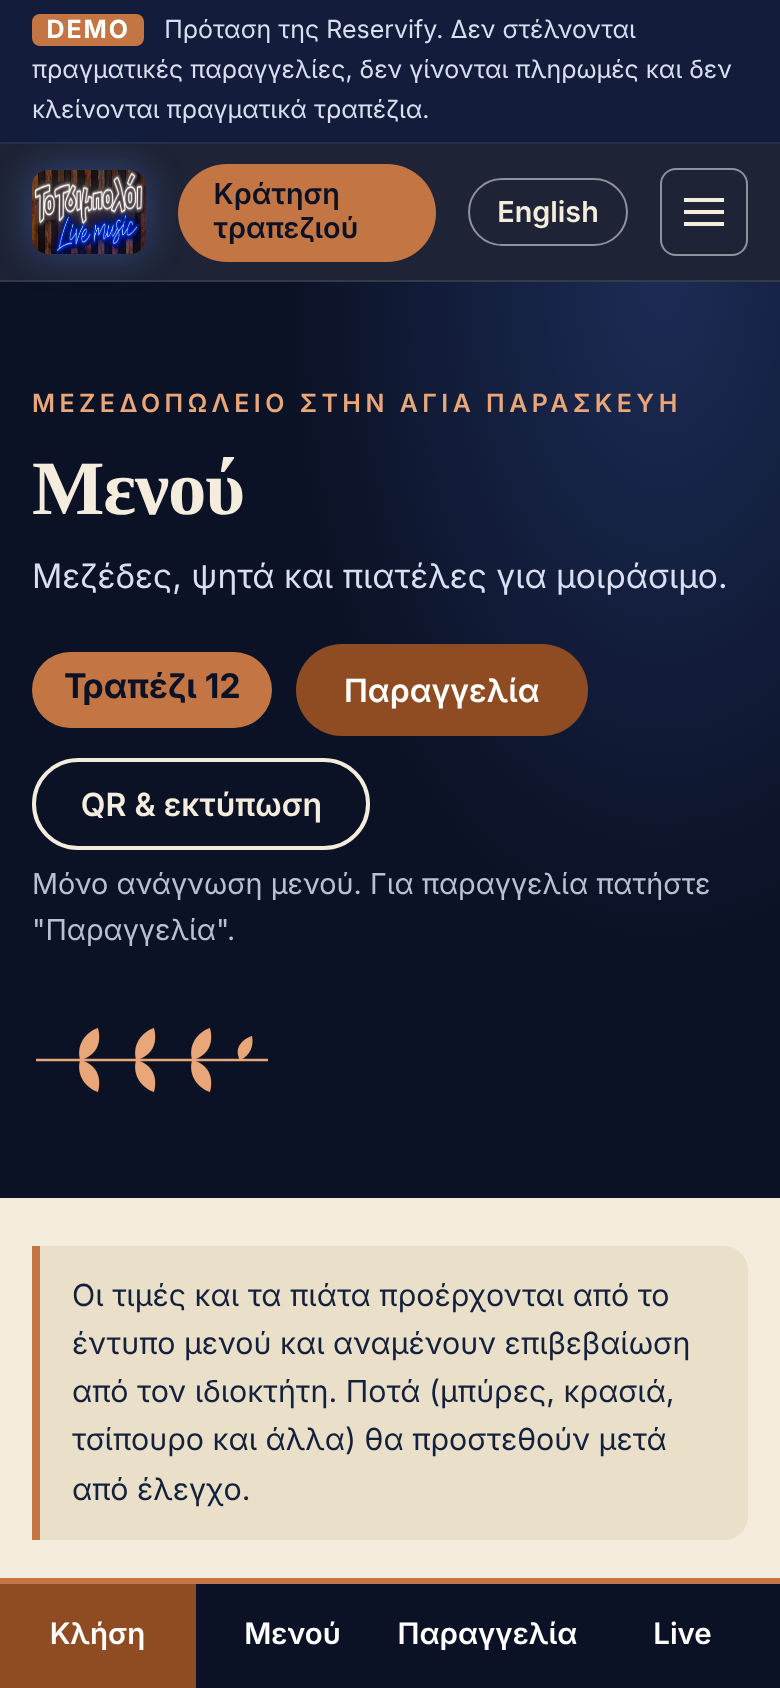
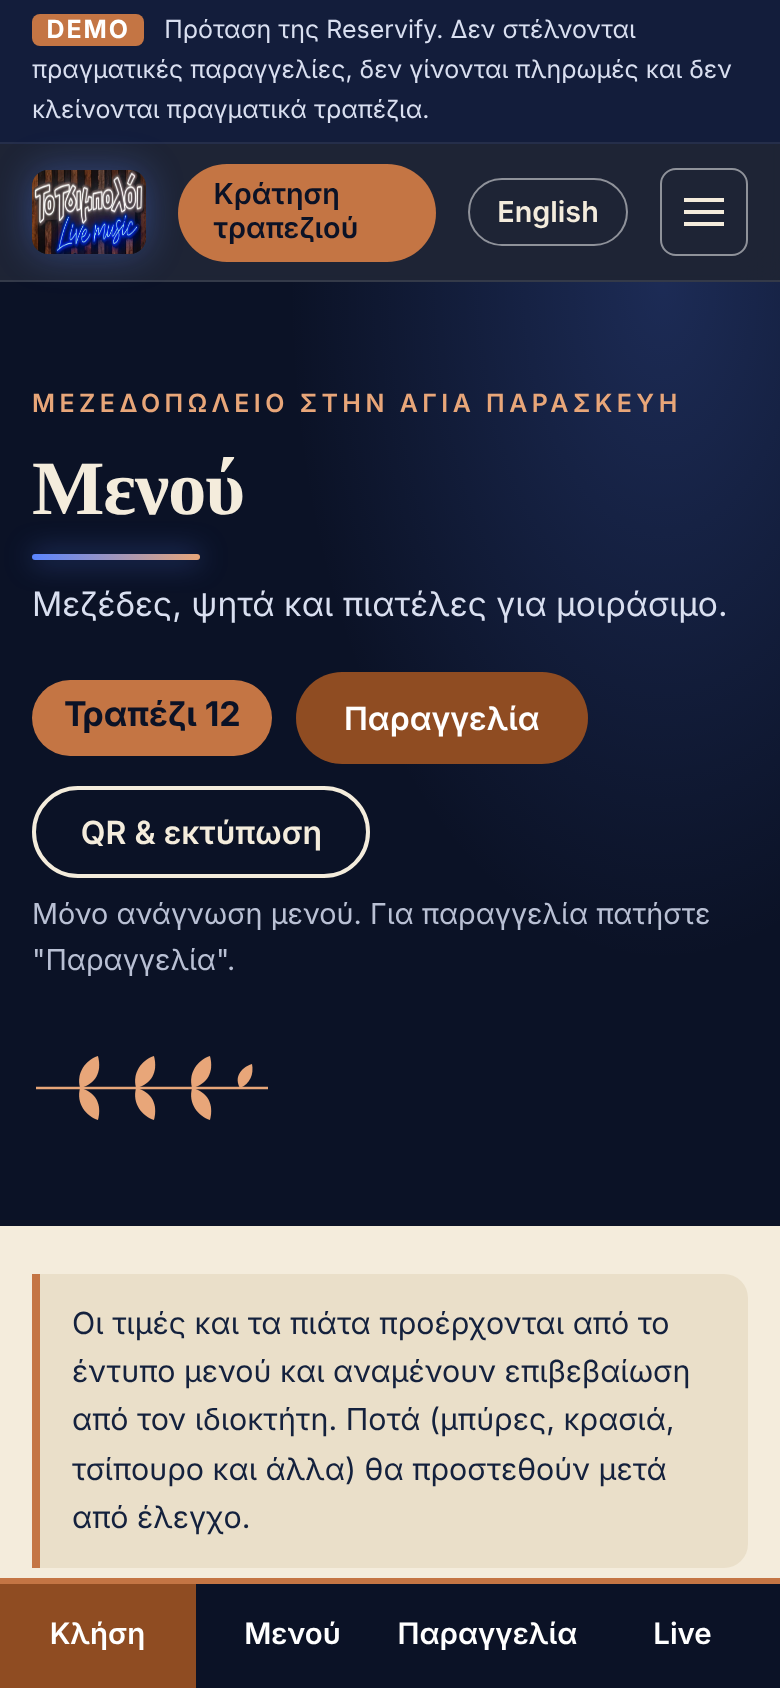
Fix heading class collision, pre-split headings (no flash), centre-stage autoplay carousel, card section container
Claude-Session: https://claude.ai/code/session_017TSJS6xdFvpxXD9sdGramY

Changed region(s): [[0.0308, 0.3081, 0.9231, 0.6777], [0.0, 0.7085, 1.0, 0.9242], [0.0308, 0.8934, 0.0615, 0.9242]]

diff --git a/src/client/social.js b/src/client/social.js
@@ -1,43 +1,100 @@
-// Instagram-style post cards + carousels. Cards link OUT to Instagram; nothing from Instagram is embedded.
+// Instagram posts + the centre-stage carousel (one highlighted post, a neighbour each side, auto-advance every 5 s, endless loop).
+// Posts without an uploaded image show the real post through Instagram's own embed; every card also links out.
 import { $, $$, adapter, storage } from './core.js';
 
-export function initSocial(root = document) {
+const INTERVAL = 5000;
+
+function mountEmbeds(root) {
   const imgs = adapter.getImages();
   $$('.post[data-post]', root).forEach((card) => {
     const src = imgs[`post:${card.dataset.post}`];
-    if (!src) {
-      // No uploaded image: show the real post through Instagram's own embed (loaded lazily, only near the viewport).
-      if (storage.get('tsb.embeds', 'on') === 'off') return;
-      const media = $('[data-post-media]', card);
-      const f = document.createElement('iframe');
-      f.src = `https://www.instagram.com/p/${card.dataset.post}/embed/`;
-      f.loading = 'lazy';
-      f.title = 'Instagram';
-      f.setAttribute('scrolling', 'no');
-      f.referrerPolicy = 'strict-origin-when-cross-origin';
-      media.append(f);
-      card.classList.add('embedded');
+    const media = $('[data-post-media]', card);
+    if (src) {
+      if (!$('.post-img', media)) {
+        const img = new Image();
+        img.className = 'post-img';
+        img.alt = '';
+        img.src = src;
+        img.loading = 'lazy';
+        media.prepend(img);
+      }
+      card.classList.add('has-media');
       return;
     }
-    const media = $('[data-post-media]', card);
-    if (!$('.post-img', media)) {
-      const img = new Image();
-      img.className = 'post-img';
-      img.alt = '';
-      img.src = src;
-      img.loading = 'lazy';
-      media.prepend(img);
-    }
-    card.classList.add('has-media');
+    if (storage.get('tsb.embeds', 'on') === 'off' || $('iframe', media)) return;
+    const f = document.createElement('iframe');
+    f.src = `https://www.instagram.com/p/${card.dataset.post}/embed/`;
+    f.loading = 'lazy';
+    f.title = 'Instagram';
+    f.setAttribute('scrolling', 'no');
+    f.referrerPolicy = 'strict-origin-when-cross-origin';
+    media.append(f);
+    card.classList.add('embedded');
   });
-  $$('[data-carousel]', root).forEach((car) => {
-    const track = $('.car-track', car);
-    const step = () => Math.max(220, track.clientWidth * 0.85);
-    $('[data-car-prev]', car).addEventListener('click', () => track.scrollBy({ left: -step(), behavior: 'smooth' }));
-    $('[data-car-next]', car).addEventListener('click', () => track.scrollBy({ left: step(), behavior: 'smooth' }));
-    track.addEventListener('keydown', (e) => {
-      if (e.key === 'ArrowRight') { track.scrollBy({ left: step() / 2, behavior: 'smooth' }); e.preventDefault(); }
-      if (e.key === 'ArrowLeft') { track.scrollBy({ left: -step() / 2, behavior: 'smooth' }); e.preventDefault(); }
+}
+
+function stage(car) {
+  const track = $('.car-track', car);
+  const cards = $$('.post', track);
+  const n = cards.length;
+  if (n < 3) return;
+  const reduced = matchMedia('(prefers-reduced-motion: reduce)').matches;
+  let active = 0;
+  let timer = null;
+  let hover = false;
+  car.classList.add('cf');
+  track.removeAttribute('tabindex');
+  track.setAttribute('role', 'group');
+
+  const layout = () => {
+    const w = cards[0].offsetWidth || 320;
+    cards.forEach((c, i) => {
+      let off = (i - active) % n;
+      if (off > n / 2) off -= n;
+      if (off < -n / 2 + (n % 2 ? 0 : 0) && off <= -n / 2) off += n === 0 ? 0 : 0;
+      const abs = Math.abs(off);
+      const side = Math.sign(off);
+      const x = abs === 0 ? 0 : abs === 1 ? side * w * 0.96 : side * w * 1.7;
+      const s = abs === 0 ? 1 : abs === 1 ? 0.84 : 0.7;
+      const o = abs === 0 ? 1 : abs === 1 ? 0.6 : 0;
+      c.style.setProperty('--x', `${x}px`);
+      c.style.setProperty('--s', String(s));
+      c.style.setProperty('--o', String(o));
+      c.style.zIndex = String(abs === 0 ? 3 : abs === 1 ? 2 : 1);
+      c.classList.toggle('is-center', abs === 0);
+      c.toggleAttribute('inert', abs !== 0);
+      c.setAttribute('aria-hidden', abs > 1 ? 'true' : 'false');
     });
+    const h = Math.max(...cards.map((c) => c.offsetHeight));
+    track.style.setProperty('--h', `${h + 24}px`);
+  };
+  const go = (i) => { active = ((i % n) + n) % n; layout(); };
+  const restart = () => {
+    clearInterval(timer);
+    if (!reduced) timer = setInterval(() => { if (!hover && !document.hidden) go(active + 1); }, INTERVAL);
+  };
+
+  $('[data-car-prev]', car).addEventListener('click', () => { go(active - 1); restart(); });
+  $('[data-car-next]', car).addEventListener('click', () => { go(active + 1); restart(); });
+  cards.forEach((c, i) => c.addEventListener('click', (e) => {
+    if (i !== active) { e.preventDefault(); go(i); restart(); }
+  }));
+  track.addEventListener('mouseenter', () => { hover = true; });
+  track.addEventListener('mouseleave', () => { hover = false; });
+  track.addEventListener('focusin', () => { hover = true; });
+  track.addEventListener('focusout', () => { hover = false; });
+  car.addEventListener('keydown', (e) => {
+    if (e.key === 'ArrowRight') { go(active + 1); restart(); e.preventDefault(); }
+    if (e.key === 'ArrowLeft') { go(active - 1); restart(); e.preventDefault(); }
   });
+  addEventListener('resize', layout);
+  layout();
+  setTimeout(layout, 600);
+  setTimeout(layout, 2500);
+  restart();
+}
+
+export function initSocial(root = document) {
+  mountEmbeds(root);
+  $$('[data-carousel]', root).forEach(stage);
 }

diff --git a/src/styles/site.css b/src/styles/site.css
@@ -323,20 +323,20 @@ fieldset{border:0;padding:0;margin:0}
 /* ---- motion & graphics layer ---- */
 .w{display:inline-block;overflow:hidden;vertical-align:bottom;padding-bottom:.14em;margin-bottom:-.14em}
 .w>span{display:inline-block}
-.js .split .w>span{transform:translateY(112%) rotate(4deg);transition:transform .9s var(--ease) calc(var(--i)*60ms)}
-.js .split.in .w>span{transform:none}
-.js .split:not(.in) .w>span{animation:w-safe .01s 2.6s forwards}
+.js .wsplit .w>span{transform:translateY(112%) rotate(4deg);transition:transform .9s var(--ease) calc(var(--i)*60ms)}
+.js .wsplit.in .w>span{transform:none}
+.js .wsplit:not(.in) .w>span{animation:w-safe .01s 2.6s forwards}
 @keyframes w-safe{to{transform:none}}
-.js h1.split,.js h2.split{opacity:1;transform:none}
-.split::after{content:"";display:block;height:3px;width:0;margin-top:.7rem;border-radius:3px;background:linear-gradient(90deg,var(--neon),var(--copper-lt));box-shadow:0 0 14px rgba(90,133,255,.7);transition:width 1.1s var(--ease) .35s}
-.split.in::after{width:84px}
-.hero2 h1.split::after{display:none}
-.js .split:not(.in)::after{animation:ul-safe .01s 2.6s forwards}
+.js h1.wsplit,.js h2.wsplit{opacity:1;transform:none}
+.wsplit::after{content:"";display:block;height:3px;width:0;margin-top:.7rem;border-radius:3px;background:linear-gradient(90deg,var(--neon),var(--copper-lt));box-shadow:0 0 14px rgba(90,133,255,.7);transition:width 1.1s var(--ease) .35s}
+.wsplit.in::after{width:84px}
+.hero2 h1.wsplit::after{display:none}
+.js .wsplit:not(.in)::after{animation:ul-safe .01s 2.6s forwards}
 @keyframes ul-safe{to{width:84px}}
 .notes{position:absolute;inset:0;overflow:hidden;pointer-events:none;z-index:1}
-.note{position:absolute;bottom:-40px;width:26px;height:26px;color:var(--copper-lt);opacity:0;animation:rise 14s linear infinite}
+.note{position:absolute;bottom:-40px;width:26px;height:26px;color:var(--copper-lt);opacity:0;animation:note-rise 14s linear infinite}
 .n0{left:8%;animation-delay:0s}.n1{left:24%;animation-delay:3s;width:20px;height:20px;color:var(--neon)}.n2{left:46%;animation-delay:6s}.n3{left:63%;animation-delay:1.5s;width:32px;height:32px;color:var(--neon)}.n4{left:80%;animation-delay:8s}.n5{left:92%;animation-delay:4.5s;width:18px;height:18px}
-@keyframes rise{0%{transform:translateY(0) rotate(-12deg);opacity:0}12%{opacity:.5}80%{opacity:.35}100%{transform:translateY(-110vh) translateX(40px) rotate(18deg);opacity:0}}
+@keyframes note-rise{0%{transform:translateY(0) rotate(-12deg);opacity:0}12%{opacity:.5}80%{opacity:.35}100%{transform:translateY(-110vh) translateX(40px) rotate(18deg);opacity:0}}
 .hero-grid{z-index:2}
 /* image reveals: soft clip + slow zoom */
 .js .g-item,.js .ef-poster{clip-path:inset(10% 6% 10% 6% round 22px);transition:opacity .8s var(--ease),transform .8s var(--ease),clip-path 1.1s var(--ease)}
@@ -362,7 +362,16 @@ fieldset{border:0;padding:0;margin:0}
 .dish{transition:background .25s,padding-left .25s var(--ease),box-shadow .25s}.dish:hover{background:rgba(180,105,58,.08);padding-left:.6rem;box-shadow:inset 3px 0 0 var(--copper-bg)}
 .post:hover{transform:translateY(-6px);box-shadow:var(--shadow)}
 .neon-card img{transition:filter .6s}.neon-card:hover img{filter:saturate(1.2) brightness(1.08)}
-@media (prefers-reduced-motion:reduce){.note,.eq i{animation:none}.js .split .w>span,.js .g-item,.js .ef-poster{transform:none;clip-path:none;transition:none}.js .g-item:not(.in) img{transform:none}.split::after{width:84px;transition:none}}
+@media (prefers-reduced-motion:reduce){.note,.eq i{animation:none}.js .wsplit .w>span,.js .g-item,.js .ef-poster{transform:none;clip-path:none;transition:none}.js .g-item:not(.in) img{transform:none}.wsplit::after{width:84px;transition:none}}
 .map-frame{position:relative;min-height:320px;border-radius:var(--r);overflow:hidden;border:1px solid rgba(255,255,255,.2);background:var(--night);display:grid;place-items:center;box-shadow:var(--shadow)}
 .map-frame iframe{position:absolute;inset:0;width:100%;height:100%;border:0}
 .map-frame.has-map a{position:absolute;right:.7rem;bottom:.7rem;z-index:2}
+/* centre-stage carousel */
+.carousel.cf{overflow:hidden;padding:.5rem 0}
+.cf .car-track{display:block;position:relative;overflow:visible;height:var(--h,720px);padding:0;scroll-snap-type:none;scroll-behavior:auto}
+.cf .car-track>.post{position:absolute;left:50%;top:0;flex:none;width:min(320px,74vw);transform:translateX(calc(-50% + var(--x,0px))) scale(var(--s,1));opacity:var(--o,0);transform-origin:50% 0;transition:transform .9s var(--ease),opacity .9s var(--ease),box-shadow .9s;scroll-snap-align:none;cursor:pointer}
+.cf .car-track>.post.is-center{cursor:auto;box-shadow:0 26px 60px rgba(11,18,38,.35);border-color:var(--copper-bg)}
+.cf .post:not(.is-center) .post-media iframe{pointer-events:none}
+.cf .post:hover{transform:translateX(calc(-50% + var(--x,0px))) scale(var(--s,1))}
+.cf .car-ctl{justify-content:center;margin-top:.5rem}
+.post.embedded .post-media{aspect-ratio:auto;height:560px}

diff --git a/src/site/render.js b/src/site/render.js
@@ -109,7 +109,7 @@ ${jsonld.map((j) => `<script type="application/ld+json">${JSON.stringify(j)}</sc
 <div class="demo-banner" role="note"><div class="wrap"><strong>${esc(S[lang].demoBadge)}</strong> ${esc(S[lang].demoBanner)}</div></div>
 ${header(c, lang, route)}
 <main id="main" tabindex="-1">
-${body}
+${route === 'admin' ? body : splitHeadings(body)}
 </main>
 ${footer(c, lang)}
 ${actionBar(c, lang)}
@@ -121,7 +121,16 @@ ${scripts.map((s) => `<script type="module" src="${A('/assets/' + s)}?v=${c.vers
 `;
 }
 
-const pageHead = (lang, key, lead, kicker = '') => `<section class="page-head"><div class="wrap">${kicker ? `<p class="kicker">${esc(kicker)}</p>` : ''}<h1 class="reveal">${esc(t(lang, key + '.h1'))}</h1>${lead ? `<p class="lead reveal">${esc(lead)}</p>` : ''}${svgLeaf}</div></section>`;
+/** Pre-split plain-text h1/h2 into words at build time, so the rise-in animation starts hidden and never flashes. */
+function splitHeadings(html) {
+  return html.replace(/<(h[12])([^>]*)>([^<]+)<\/\1>/g, (m, tag, attrs, text) => {
+    const words = text.trim().split(/\s+/);
+    const a = / class="/.test(attrs) ? attrs.replace(/ class="/, ' class="wsplit ') : `${attrs} class="wsplit"`;
+    return `<${tag}${a} aria-label="${words.join(' ')}">${words.map((w, i) => `<span class="w" aria-hidden="true"><span style="--i:${i}">${w}</span></span>`).join(' ')}</${tag}>`;
+  });
+}
+
+const pageHead =(lang, key, lead, kicker = '') => `<section class="page-head"><div class="wrap">${kicker ? `<p class="kicker">${esc(kicker)}</p>` : ''}<h1 class="reveal">${esc(t(lang, key + '.h1'))}</h1>${lead ? `<p class="lead reveal">${esc(lead)}</p>` : ''}${svgLeaf}</div></section>`;
 
 /* ---------- shared blocks ---------- */
 function postCard(c, lang, p) {
@@ -243,10 +252,10 @@ ${next ? `<section class="section next-night"><div class="wrap">${eventFeature(c
   <p class="small muted">${esc(t(lang, 'home.photoCredit'))}</p>
 </div></section>
 
-<section class="section"><div class="wrap cards2">
+<section class="section"><div class="wrap"><div class="cards2">
   <article class="card reveal"><p class="kicker">${esc(t(lang, 'home.partyKicker'))}</p><h3>${esc(t(lang, 'home.partyTitle'))}</h3><p>${esc(t(lang, 'home.partyP'))}</p><a class="link" href="${pathFor(c, lang, 'events')}#inquiry">${esc(t(lang, 'home.partyLink'))} ${arrow}</a></article>
   <article class="card reveal"><p class="kicker">${esc(t(lang, 'home.offerKicker'))}</p><h3>${esc(t(lang, 'home.offerTitle'))}</h3><p>${esc(t(lang, 'home.offerP'))}</p><span class="tag">${esc(t(lang, 'offers.existing'))}</span><br><a class="link" href="${pathFor(c, lang, 'offers')}">${esc(t(lang, 'home.offerLink'))} ${arrow}</a></article>
-</div></section>
+</div></div></section>
 
 <svg class="wave" viewBox="0 0 1440 46" preserveAspectRatio="none" aria-hidden="true" style="margin-bottom:-1px"><path d="M0 46V22C180 2 360 4 540 20s360 26 540 6 270-16 360-8v28z"/></svg>
 <section class="section dark visit" style="padding-top:2.5rem"><div class="wrap split">

diff --git a/src/client/app.js b/src/client/app.js
@@ -65,29 +65,8 @@ if (storage.get('tsb.embeds', 'on') !== 'off') {
   });
 }
 
-// Word-by-word heading animation (the heading keeps its text for assistive tech; words are wrapped for the rise-in effect)
-if (!reduced) {
-  $$('main h1, main h2').forEach((h) => {
-    if (h.children.length || h.closest('#admin-root, dialog') || !h.textContent.trim()) return;
-    const words = h.textContent.trim().split(/\s+/);
-    h.setAttribute('aria-label', words.join(' '));
-    h.replaceChildren();
-    words.forEach((word, i) => {
-      const outer = document.createElement('span');
-      outer.className = 'w';
-      outer.setAttribute('aria-hidden', 'true');
-      const inner = document.createElement('span');
-      inner.style.setProperty('--i', String(i));
-      inner.textContent = word;
-      outer.append(inner);
-      h.append(outer, i < words.length - 1 ? ' ' : '');
-    });
-    h.classList.add('split');
-  });
-}
-
 // Scroll reveal (content stays visible without JS and under reduced motion)
-const reveals = $$('.reveal, .split');
+const reveals = $$('.reveal, .wsplit');
 if (reduced || !('IntersectionObserver' in window)) reveals.forEach((e) => e.classList.add('in'));
 else {
   const io = new IntersectionObserver((entries) => entries.forEach((en) => {
